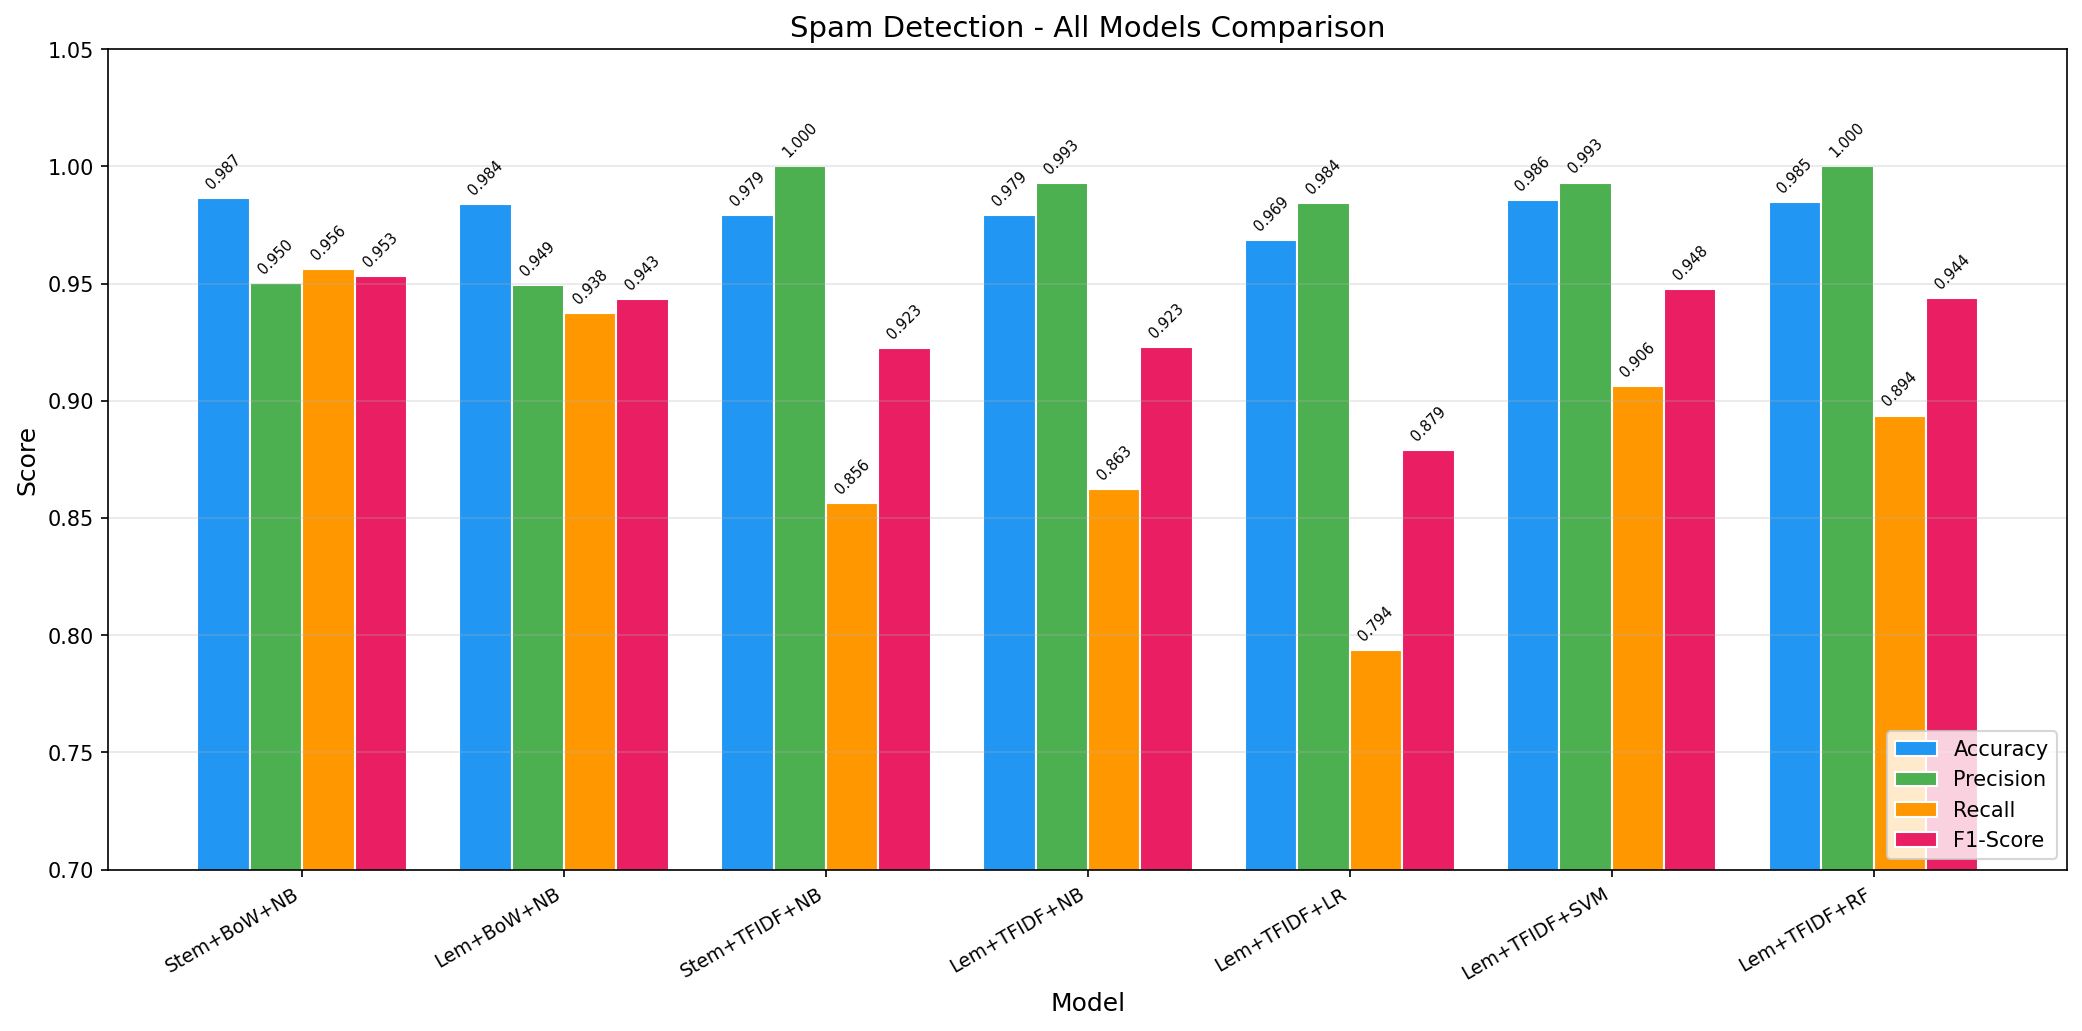
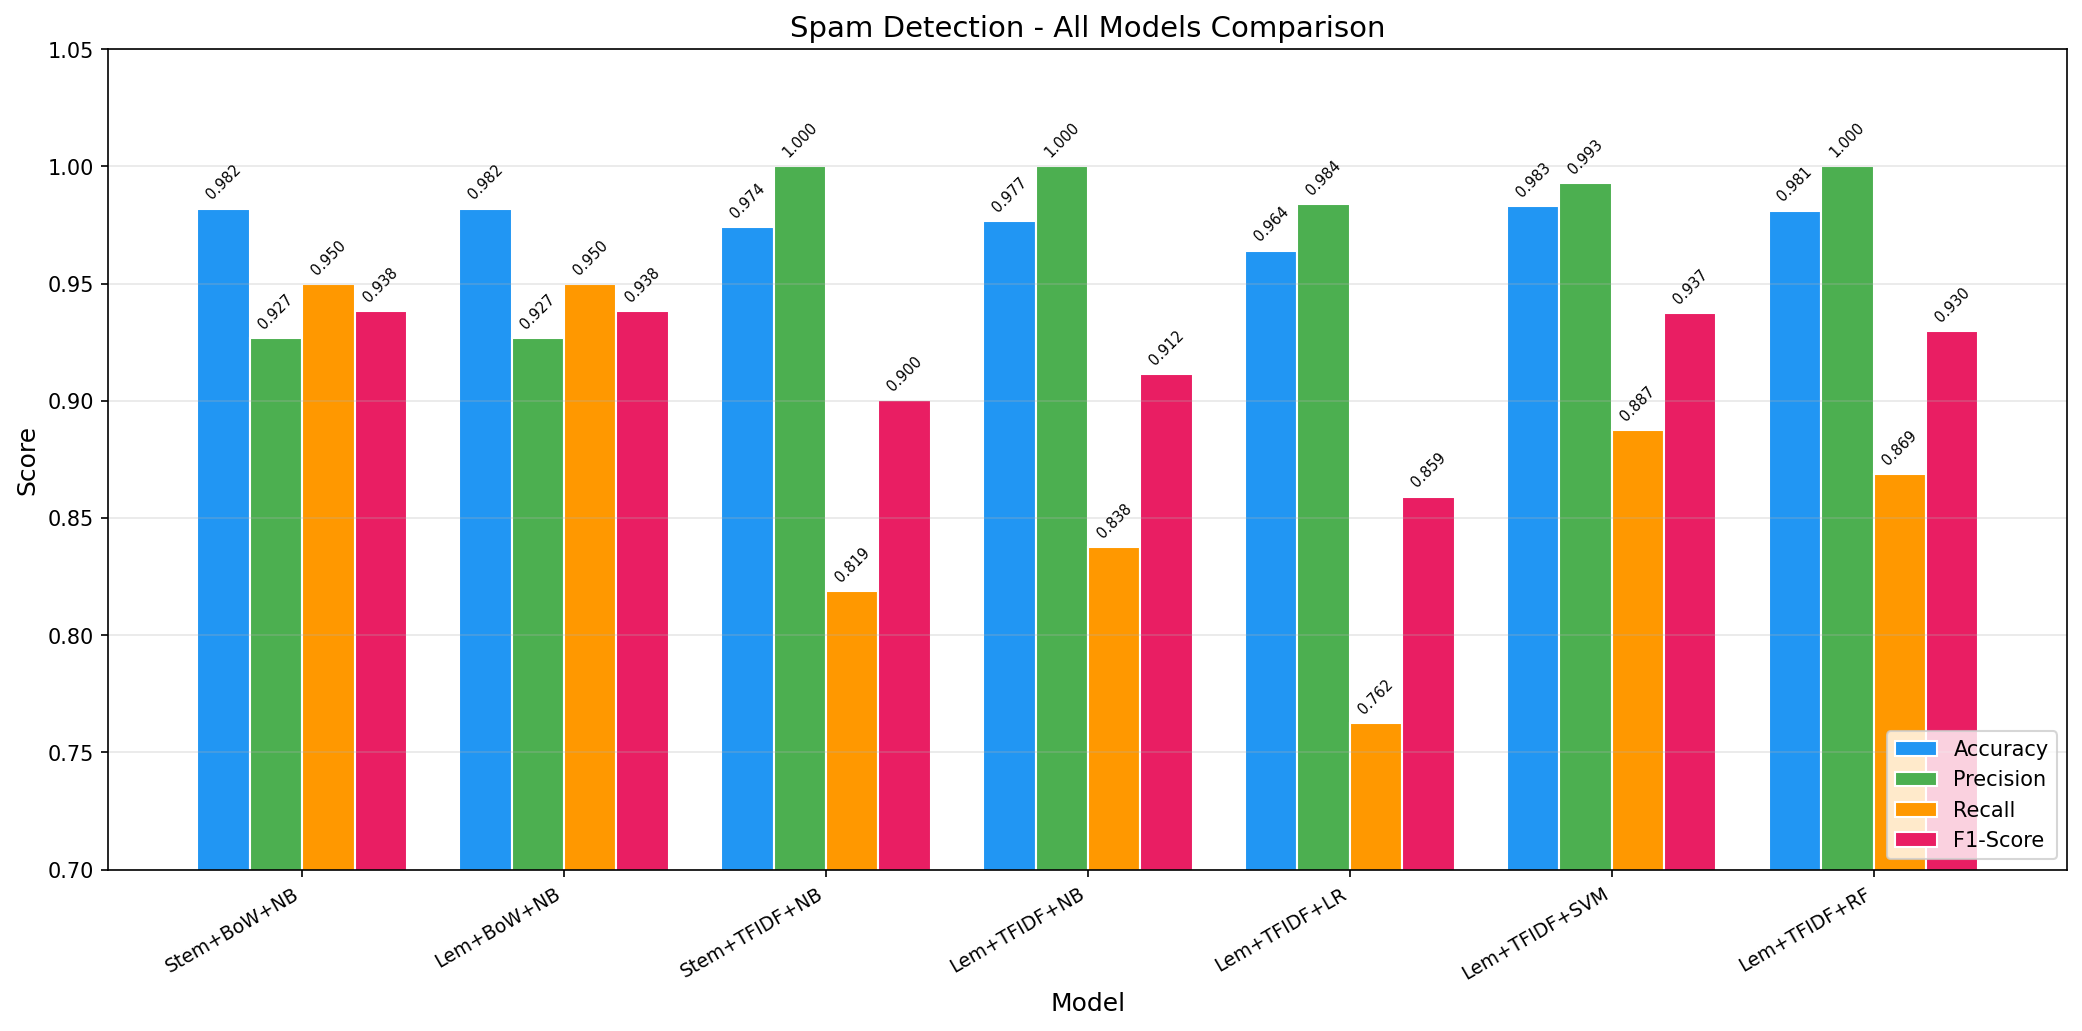
increase max_features to 5000, update results, add conclusion with analysis

diff --git a/compare_all_models.py b/compare_all_models.py
@@ -86,9 +86,9 @@ for pipe in pipelines:
     corpus = corpus_stemmed if pipe['preprocess'] == 'stemming' else corpus_lemmatized
 
     if pipe['vectorizer'] == 'bow':
-        vec = CountVectorizer(max_features=2500)
+        vec = CountVectorizer(max_features=5000)
     else:
-        vec = TfidfVectorizer(max_features=2500)
+        vec = TfidfVectorizer(max_features=5000)
 
     X = vec.fit_transform(corpus).toarray()
 

diff --git a/3_stemming_tfidf_nb.py b/3_stemming_tfidf_nb.py
@@ -33,7 +33,7 @@ for i in range(len(messages)):
     corpus.append(review)
 
 # TF-IDF
-tfidf = TfidfVectorizer(max_features=2500)
+tfidf = TfidfVectorizer(max_features=5000)
 X = tfidf.fit_transform(corpus).toarray()
 
 y = pd.get_dummies(messages['label'])

diff --git a/4_lemmatization_tfidf_nb.py b/4_lemmatization_tfidf_nb.py
@@ -35,7 +35,7 @@ for i in range(len(messages)):
     corpus.append(review)
 
 # TF-IDF
-tfidf = TfidfVectorizer(max_features=2500)
+tfidf = TfidfVectorizer(max_features=5000)
 X = tfidf.fit_transform(corpus).toarray()
 
 y = pd.get_dummies(messages['label'])

diff --git a/5_lemmatization_tfidf_lr.py b/5_lemmatization_tfidf_lr.py
@@ -35,7 +35,7 @@ for i in range(len(messages)):
     corpus.append(review)
 
 # TF-IDF
-tfidf = TfidfVectorizer(max_features=2500)
+tfidf = TfidfVectorizer(max_features=5000)
 X = tfidf.fit_transform(corpus).toarray()
 
 y = pd.get_dummies(messages['label'])

diff --git a/6_lemmatization_tfidf_svm.py b/6_lemmatization_tfidf_svm.py
@@ -35,7 +35,7 @@ for i in range(len(messages)):
     corpus.append(review)
 
 # TF-IDF
-tfidf = TfidfVectorizer(max_features=2500)
+tfidf = TfidfVectorizer(max_features=5000)
 X = tfidf.fit_transform(corpus).toarray()
 
 y = pd.get_dummies(messages['label'])

diff --git a/7_lemmatization_tfidf_rf.py b/7_lemmatization_tfidf_rf.py
@@ -35,7 +35,7 @@ for i in range(len(messages)):
     corpus.append(review)
 
 # TF-IDF
-tfidf = TfidfVectorizer(max_features=2500)
+tfidf = TfidfVectorizer(max_features=5000)
 X = tfidf.fit_transform(corpus).toarray()
 
 y = pd.get_dummies(messages['label'])

diff --git a/1_stemming_bow_nb.py b/1_stemming_bow_nb.py
@@ -33,7 +33,7 @@ for i in range(len(messages)):
     corpus.append(review)
 
 # Bag of Words
-cv = CountVectorizer(max_features=2500)
+cv = CountVectorizer(max_features=5000)
 X = cv.fit_transform(corpus).toarray()
 
 y = pd.get_dummies(messages['label'])

diff --git a/2_lemmatization_bow_nb.py b/2_lemmatization_bow_nb.py
@@ -35,7 +35,7 @@ for i in range(len(messages)):
     corpus.append(review)
 
 # Bag of Words
-cv = CountVectorizer(max_features=2500)
+cv = CountVectorizer(max_features=5000)
 X = cv.fit_transform(corpus).toarray()
 
 y = pd.get_dummies(messages['label'])

diff --git a/README.md b/README.md
@@ -18,19 +18,28 @@ The dataset contains 5,572 SMS messages labeled as `ham` (legitimate) or `spam`.
 | 6 | `6_lemmatization_tfidf_svm.py` | WordNet Lemmatization | TF-IDF | SVM (Linear) |
 | 7 | `7_lemmatization_tfidf_rf.py` | WordNet Lemmatization | TF-IDF | Random Forest |
 
+All models use `max_features=5000`.
+
 ## Results
 
 | Model | Accuracy | Precision | Recall | F1-Score |
 |-------|----------|-----------|--------|----------|
-| 1. Stemming + BoW + NB | 0.9865 | 0.9503 | 0.9563 | **0.9533** |
-| 2. Lemma + BoW + NB | 0.9839 | 0.9494 | 0.9375 | 0.9434 |
-| 3. Stemming + TF-IDF + NB | 0.9794 | **1.0000** | 0.8563 | 0.9226 |
-| 4. Lemma + TF-IDF + NB | 0.9794 | 0.9928 | 0.8625 | 0.9231 |
-| 5. Lemma + TF-IDF + LR | 0.9686 | 0.9845 | 0.7938 | 0.8789 |
-| 6. Lemma + TF-IDF + SVM | 0.9857 | 0.9932 | 0.9063 | 0.9478 |
-| 7. Lemma + TF-IDF + RF | 0.9848 | **1.0000** | 0.8938 | 0.9439 |
+| 1. Stemming + BoW + NB | 0.9821 | 0.9268 | **0.9500** | **0.9383** |
+| 2. Lemma + BoW + NB | 0.9821 | 0.9268 | **0.9500** | **0.9383** |
+| 3. Stemming + TF-IDF + NB | 0.9740 | **1.0000** | 0.8188 | 0.9003 |
+| 4. Lemma + TF-IDF + NB | 0.9767 | **1.0000** | 0.8375 | 0.9116 |
+| 5. Lemma + TF-IDF + LR | 0.9641 | 0.9839 | 0.7625 | 0.8592 |
+| 6. Lemma + TF-IDF + SVM | **0.9830** | 0.9930 | 0.8875 | 0.9373 |
+| 7. Lemma + TF-IDF + RF | 0.9812 | **1.0000** | 0.8688 | 0.9298 |
 
-**Best overall model (F1-Score): Stemming + BoW + Multinomial Naive Bayes (0.9533)**
+### Best Model Per Metric
+
+| Metric | Best Model | Score |
+|--------|-----------|-------|
+| Accuracy | Lemma + TF-IDF + SVM | 0.9830 |
+| Precision | Stemming + TF-IDF + NB / Lemma + TF-IDF + RF | 1.0000 |
+| Recall | Stemming + BoW + NB / Lemma + BoW + NB | 0.9500 |
+| F1-Score | Stemming + BoW + NB / Lemma + BoW + NB | 0.9383 |
 
 ### Comparison Charts
 
@@ -46,12 +55,44 @@ The dataset contains 5,572 SMS messages labeled as `ham` (legitimate) or `spam`.
 #### Top 5 Models Radar Chart
 ![Radar Chart](comparison_radar_chart.png)
 
-## Key Findings
+## Conclusion
 
-- **Stemming vs Lemmatization**: Stemming slightly outperforms lemmatization with BoW + NB (F1: 0.9533 vs 0.9434). With TF-IDF + NB they are nearly equal.
-- **BoW vs TF-IDF**: Bag of Words outperforms TF-IDF when paired with Naive Bayes (F1: 0.9434 vs 0.9231). BoW preserves raw word counts that NB works well with.
-- **Best Classifier with TF-IDF**: SVM performs best among classifiers when using TF-IDF features (F1: 0.9478), followed by Random Forest (0.9439).
-- **Logistic Regression** underperforms compared to other classifiers on this dataset, especially in recall (0.7938).
+### 1. Stemming vs Lemmatization
+
+With BoW + Naive Bayes both give identical results (F1 = 0.9383). With TF-IDF + NB, lemmatization slightly outperforms stemming (F1: 0.9116 vs 0.9003).
+
+**Why?** Stemming chops words aggressively (e.g. "running", "runner", "runs" all become "run"), which reduces vocabulary size and groups more words together. This works well with BoW where raw frequency matters. Lemmatization is more conservative — it only reduces words to their dictionary form (e.g. "running" becomes "running", "ran" becomes "run"), so it preserves more semantic information. With TF-IDF, where word importance is weighted, this extra precision from lemmatization helps slightly.
+
+### 2. Bag of Words vs TF-IDF
+
+BoW consistently outperforms TF-IDF when paired with Naive Bayes (F1: 0.9383 vs 0.9116).
+
+**Why?** Multinomial Naive Bayes works on raw event counts — it calculates the probability of each word appearing in spam vs ham. BoW gives raw counts which is exactly what NB expects. TF-IDF normalizes and down-weights frequent words, which actually removes information that NB could use. The IDF component penalizes words that appear in many documents, but for spam detection, some common spam words (like "free", "win", "call") appear frequently and are strong indicators. TF-IDF suppresses them.
+
+### 3. Classifier Comparison (all using Lemmatization + TF-IDF)
+
+| Classifier | F1-Score | Why |
+|------------|----------|-----|
+| SVM | 0.9373 | Best with TF-IDF. SVM finds the maximum-margin hyperplane in high-dimensional space. TF-IDF features are normalized, which is what SVM prefers. Linear SVM is well suited for text classification. |
+| RF | 0.9298 | Good overall. Random Forest handles high-dimensional sparse data well through feature bagging, but 100 trees may not fully capture the patterns. |
+| NB | 0.9116 | Decent but lower recall. NB assumes feature independence, which is violated in text. With TF-IDF's normalized values, NB loses the count-based advantage it has with BoW. |
+| LR | 0.8592 | Lowest F1. Logistic Regression struggles with the class imbalance (87% ham, 13% spam). Without tuning (class weights, regularization), it tends to predict the majority class. |
+
+### 4. Why Recall Drops with TF-IDF
+
+All TF-IDF models show lower recall (0.76-0.89) compared to BoW models (0.95). This means TF-IDF models miss more spam messages.
+
+**Why?** TF-IDF down-weights words that appear across many documents. Some spam-indicator words like "call", "free", "text" also appear in legitimate messages, so their TF-IDF weight gets reduced. The model then fails to flag some spam messages that contain these shared words.
+
+### 5. Why BoW + NB is the Best Overall
+
+The simplest model wins because:
+- The SMS dataset has short texts (average ~15 words), so word frequency itself is a strong signal
+- The vocabulary is small enough that raw counts capture the patterns well
+- Naive Bayes works best with integer counts (BoW) rather than float weights (TF-IDF)
+- Stemming/Lemmatization reduces vocabulary, making the feature space manageable even at 5000 features
+
+This is a known pattern in NLP — simpler models often outperform complex ones on small, clean datasets. The more advanced approaches (SVM, RF) would likely surpass NB on larger, noisier datasets.
 
 ## How to Run
 
@@ -71,9 +112,9 @@ The dataset contains 5,572 SMS messages labeled as `ham` (legitimate) or `spam`.
 
 ## What's Being Compared
 
-- **Stemming vs Lemmatization** - two different text normalization approaches
-- **Bag of Words vs TF-IDF** - raw word counts vs frequency-weighted features
-- **Naive Bayes vs Logistic Regression vs SVM vs Random Forest** - different classification algorithms
+- **Stemming vs Lemmatization** — two different text normalization approaches
+- **Bag of Words vs TF-IDF** — raw word counts vs frequency-weighted features
+- **Naive Bayes vs Logistic Regression vs SVM vs Random Forest** — different classification algorithms
 
 ## Requirements
 
